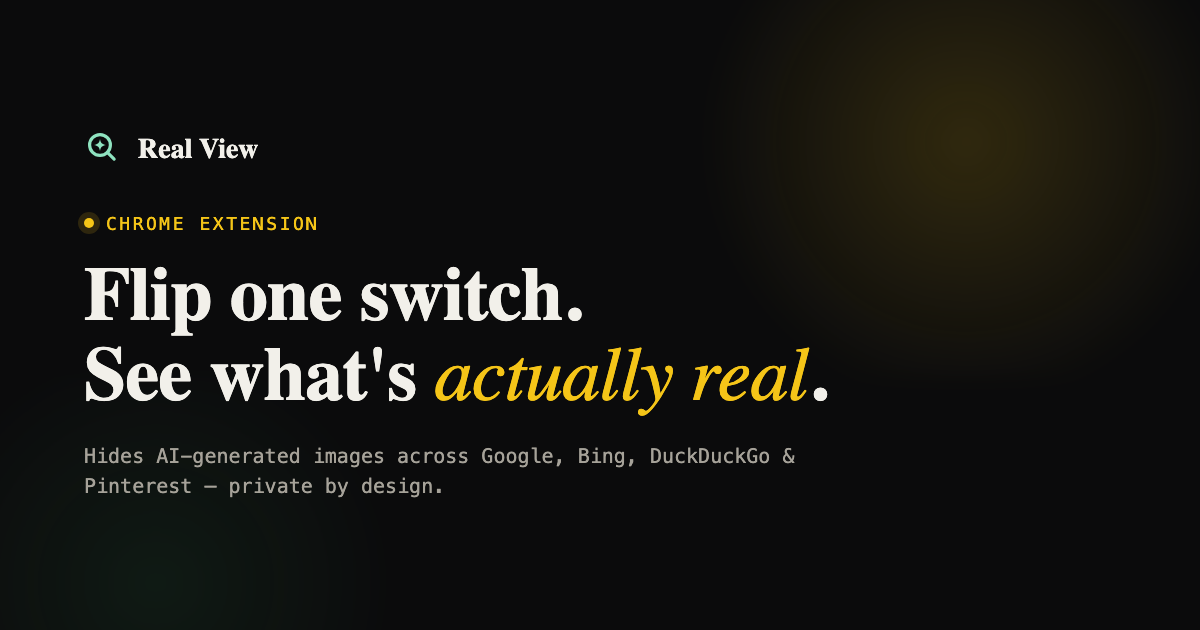
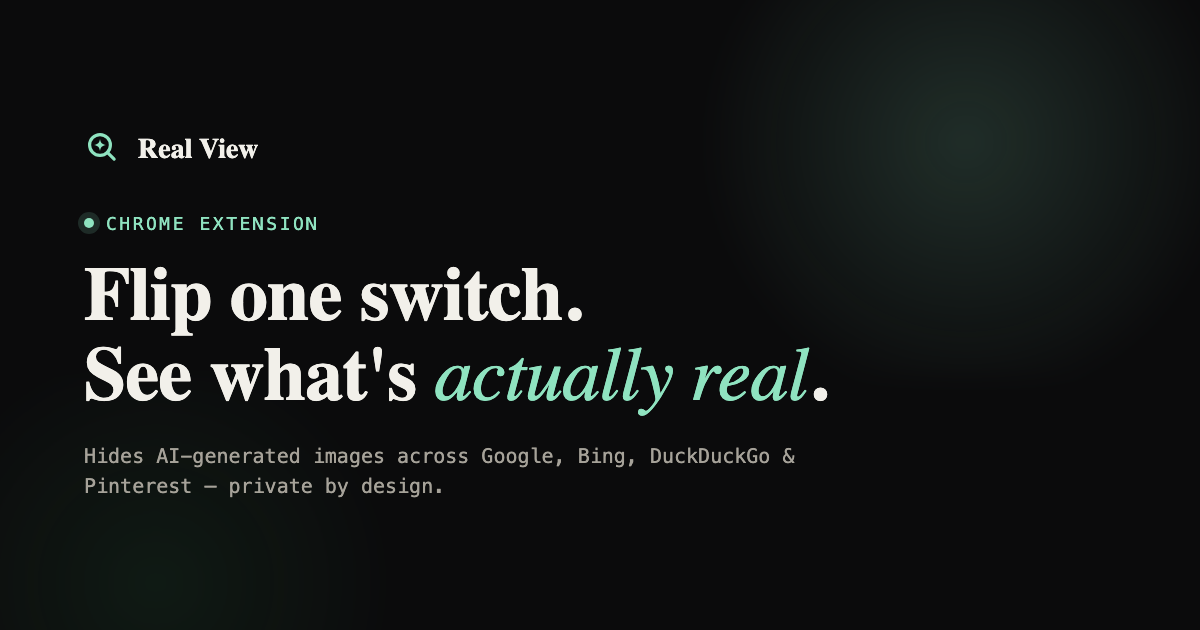
Rebrand the site's accent color from marigold to teal
The --gold CSS variable (and every hardcoded rgba equivalent) now
resolves to the new logo's teal (#8FE3C0) across both pages — buttons,
toggle glow, headline emphasis, badges, links, and the OG image all
follow. This is a full accent-color swap, not just the logo mark.

Changed region(s): [[0.3392, 0.5429, 0.6783, 0.6635], [0.0617, 0.3317, 0.2775, 0.3921], [0.7708, 0.181, 0.8325, 0.2714]]

diff --git a/docs/index.html b/docs/index.html
@@ -33,8 +33,8 @@
     --fg:#f2f0ea;
     --fg-dim:#a6a299;
     --fg-faint:#726e64;
-    --gold:#f5c518;
-    --gold-deep:#caa000;
+    --gold:#8FE3C0;
+    --gold-deep:#5FBE99;
     --green:#3fb768;
     --serif:'Fraunces', ui-serif, Georgia, serif;
     --mono:'JetBrains Mono', ui-monospace, monospace;
@@ -77,12 +77,12 @@
     content:"";
     width:7px; height:7px; border-radius:50%;
     background:var(--gold);
-    box-shadow:0 0 0 4px rgba(245,197,24,0.15);
+    box-shadow:0 0 0 4px rgba(143,227,192,0.15);
     animation:dot-pulse 2.2s ease-in-out infinite;
   }
   @keyframes dot-pulse{
-    0%,100%{ box-shadow:0 0 0 4px rgba(245,197,24,0.15); }
-    50%{ box-shadow:0 0 0 7px rgba(245,197,24,0.05); }
+    0%,100%{ box-shadow:0 0 0 4px rgba(143,227,192,0.15); }
+    50%{ box-shadow:0 0 0 7px rgba(143,227,192,0.05); }
   }
 
   /* reveal-on-scroll, staggered via --d set per-child in JS */
@@ -129,7 +129,7 @@
   }
   .btn:active{transform:translateY(1px);}
   .btn-gold{ background:var(--gold); color:#171400; }
-  .btn-gold:hover{ box-shadow:0 0 0 3px rgba(245,197,24,0.22); transform:translateY(-1px); }
+  .btn-gold:hover{ box-shadow:0 0 0 3px rgba(143,227,192,0.22); transform:translateY(-1px); }
   .btn-ghost{ border-color:var(--line-strong); color:var(--fg); }
   .btn-ghost:hover{ border-color:var(--gold); color:var(--gold); }
   .btn-sm{padding:9px 14px; font-size:12px;}
@@ -143,7 +143,7 @@
   .hero::before{
     content:"";
     position:absolute; top:-20%; right:-10%; width:60%; height:70%;
-    background:radial-gradient(circle, rgba(245,197,24,0.10), transparent 65%);
+    background:radial-gradient(circle, rgba(143,227,192,0.10), transparent 65%);
     filter:blur(20px);
     animation:drift 16s ease-in-out infinite;
     pointer-events:none;
@@ -240,11 +240,11 @@
     background:var(--fg-dim);
     transition:transform 0.32s cubic-bezier(.2,.8,.3,1.2), background 0.25s ease;
   }
-  .toggle-lg.on{ background:rgba(245,197,24,0.18); border-color:var(--gold); box-shadow:0 0 0 6px rgba(245,197,24,0.1), 0 0 24px rgba(245,197,24,0.25); animation:switch-glow 2.4s ease-in-out infinite; }
+  .toggle-lg.on{ background:rgba(143,227,192,0.18); border-color:var(--gold); box-shadow:0 0 0 6px rgba(143,227,192,0.1), 0 0 24px rgba(143,227,192,0.25); animation:switch-glow 2.4s ease-in-out infinite; }
   .toggle-lg.on::after{ transform:translateX(34px); background:var(--gold); }
   @keyframes switch-glow{
-    0%,100%{ box-shadow:0 0 0 6px rgba(245,197,24,0.1), 0 0 24px rgba(245,197,24,0.25); }
-    50%{ box-shadow:0 0 0 9px rgba(245,197,24,0.06), 0 0 34px rgba(245,197,24,0.4); }
+    0%,100%{ box-shadow:0 0 0 6px rgba(143,227,192,0.1), 0 0 24px rgba(143,227,192,0.25); }
+    50%{ box-shadow:0 0 0 9px rgba(143,227,192,0.06), 0 0 34px rgba(143,227,192,0.4); }
   }
 
   .demo{
@@ -295,7 +295,7 @@
     opacity:0; transition:opacity 0.3s;
   }
   .tile[data-kind="ai"] .badge{
-    color:var(--gold); border-color:rgba(245,197,24,0.45);
+    color:var(--gold); border-color:rgba(143,227,192,0.45);
   }
 
   .demo.hide-on .tile[data-kind="ai"] .art{ filter:blur(14px) saturate(0.5); }
@@ -498,7 +498,7 @@
   .privacy::before{
     content:"";
     position:absolute; inset:0;
-    background:radial-gradient(60% 60% at 50% 0%, rgba(245,197,24,0.08), transparent 70%);
+    background:radial-gradient(60% 60% at 50% 0%, rgba(143,227,192,0.08), transparent 70%);
     animation:pulse-bg 6s ease-in-out infinite;
   }
   @keyframes pulse-bg{

diff --git a/docs/privacy.html b/docs/privacy.html
@@ -19,7 +19,7 @@
     --fg:#f2f0ea;
     --fg-dim:#a6a299;
     --fg-faint:#726e64;
-    --gold:#f5c518;
+    --gold:#8FE3C0;
     --green:#3fb768;
     --serif:'Fraunces', ui-serif, Georgia, serif;
     --mono:'JetBrains Mono', ui-monospace, monospace;